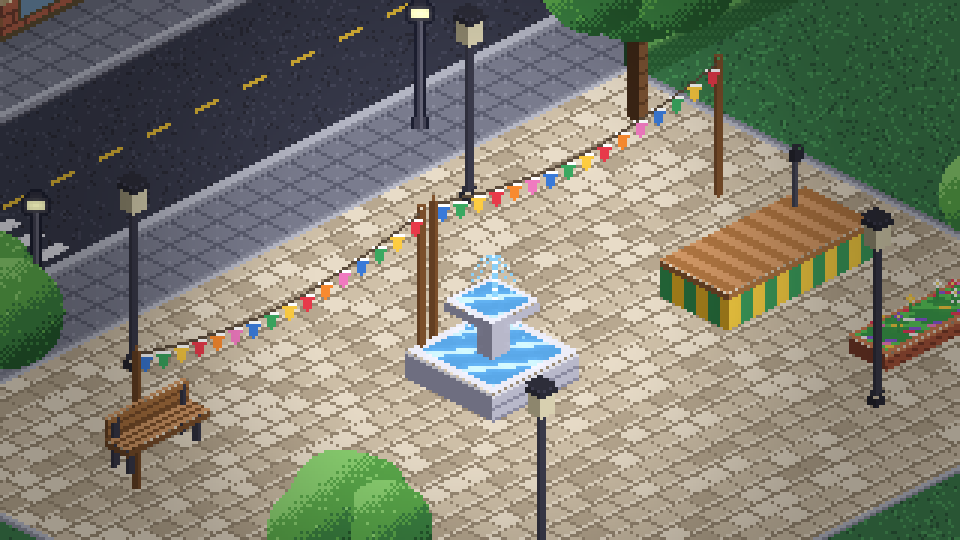
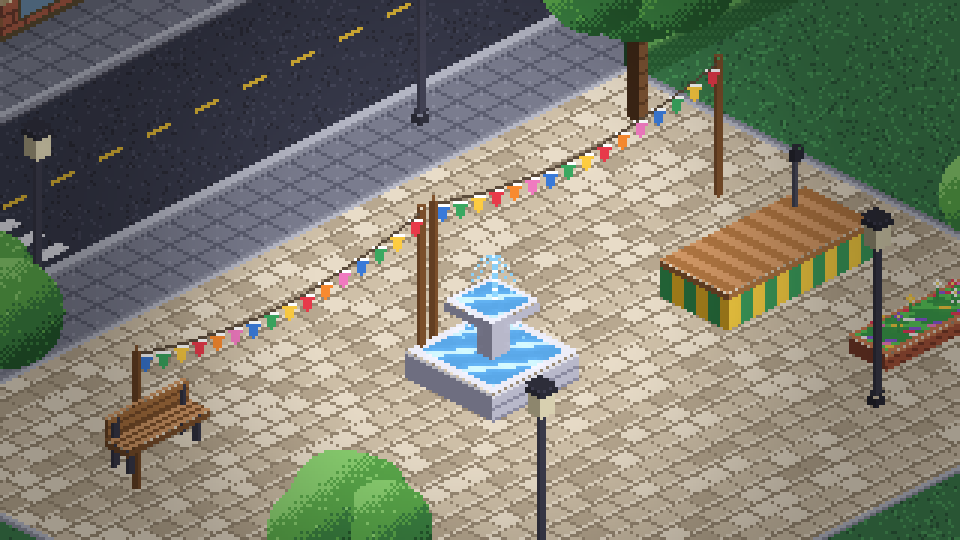
Postes da rua diagonal iguais aos da praça (poste isométrico); praça sem postes duplicados
Claude-Session: https://claude.ai/code/session_01L9V3oFJb1ahcbymZHH8qbL

diff --git a/motor/vistas.js b/motor/vistas.js
@@ -37,7 +37,13 @@ function decoracao(nome) {
   const t = tex(cv);
   const m = new THREE.Mesh(new THREE.PlaneGeometry(w, h).translate(0, h / 2, 0),
     new THREE.MeshLambertMaterial({ map: t, emissiveMap: t, emissive: new THREE.Color(0.12, 0.12, 0.12), transparent: true, alphaTest: 0.5, depthWrite: false, side: THREE.DoubleSide }));
-  return { m, s };
+  // camada que brilha sem depender da luz (lâmpada acesa)
+  let br = null;
+  if (s.brilho) {
+    const tb = tex(s.brilho[0]);
+    br = new THREE.Mesh(new THREE.PlaneGeometry(w, h).translate(0, h / 2, 0), new THREE.MeshBasicMaterial({ map: tb, transparent: true, alphaTest: 0.5, depthWrite: false, side: THREE.DoubleSide }));
+  }
+  return { m, s, br };
 }
 
 // ---------------------------------------------------------------- lateral
@@ -139,10 +145,13 @@ function vistaDiagonal(c, motor) {
 
   // postes da rua (sprites) + luz para iluminar os personagens que passam perto
   const decor = [];
+  // postes: o mesmo poste isométrico da praça ("postes": "antigo" volta ao desenho chapado de antes)
+  const nomePoste = op.postes === 'antigo' ? 'poste' : rua.noite ? 'poste-iso-aceso' : 'poste-iso';
   if (op.postes !== false) for (const p of rua.postes) {
-    const { m } = decoracao('poste');
-    m.position.copy(ponto(p.i, p.j)); m.renderOrder = ordem(p.i, p.j);
+    const { m, br } = decoracao(nomePoste);
+    m.position.copy(ponto(p.i, p.j)); m.renderOrder = ordem(p.i - 0.15, p.j - 0.15);
     cena.add(m); decor.push(m);
+    if (br) { br.position.copy(m.position); br.renderOrder = m.renderOrder + 1; cena.add(br); }
     if (rua.noite) { const L = new THREE.PointLight('#ffe0a0', 1.3 * Math.PI, 5, 1); L.position.copy(ponto(p.i, p.j, 2.5)).add(new THREE.Vector3(0, 0, 1)); cena.add(L); }
   }
 

diff --git a/CLAUDE.md b/CLAUDE.md
@@ -175,7 +175,7 @@ a virada vem a **~70%** e o resto é a solução e o fechamento.
   (`motor/sprites-praca.js`: `fonte-iso` cheia/seca, `banco-iso`, `arvore-iso`/`-grande` verde/seca, `poste-iso`,
   `poste-iso-aceso`, `canteiro-iso` verde/murcho, `palanque-iso`, `bandeirinhas-iso`; x/z = canto da frente; estado
   inicial com `"pose"`). Cenários: `praca`, `praca-noite`, `praca-festa`, `praca-seca`. Também `quarto-menina` /
-  `quarto-menina-noite` (diorama e lateral) com móveis `penteadeira`, `pufe`, `cavalete`. O modo `"exterior"` do
+  `quarto-menina-noite` (diorama e lateral) com móveis `penteadeira`, `pufe`, `cavalete`. Os postes de TODA a rua diagonal agora são o `poste-iso` (aceso à noite); `"rua": { "postes": "antigo" }` volta ao chapado. O modo `"exterior"` do
   diorama (praça com prédios próprios) foi trocado pela praça na rua (o usuário preferiu os prédios de antes).
 - **Arte do canal "Histórias em Pixel" (protótipo):** geradores de banner e ícone em `projetos/canal/arte/`
   (`banner.html`, `icone.html`, `gerar.mjs`); o `banner.png` ainda não foi substituído.
